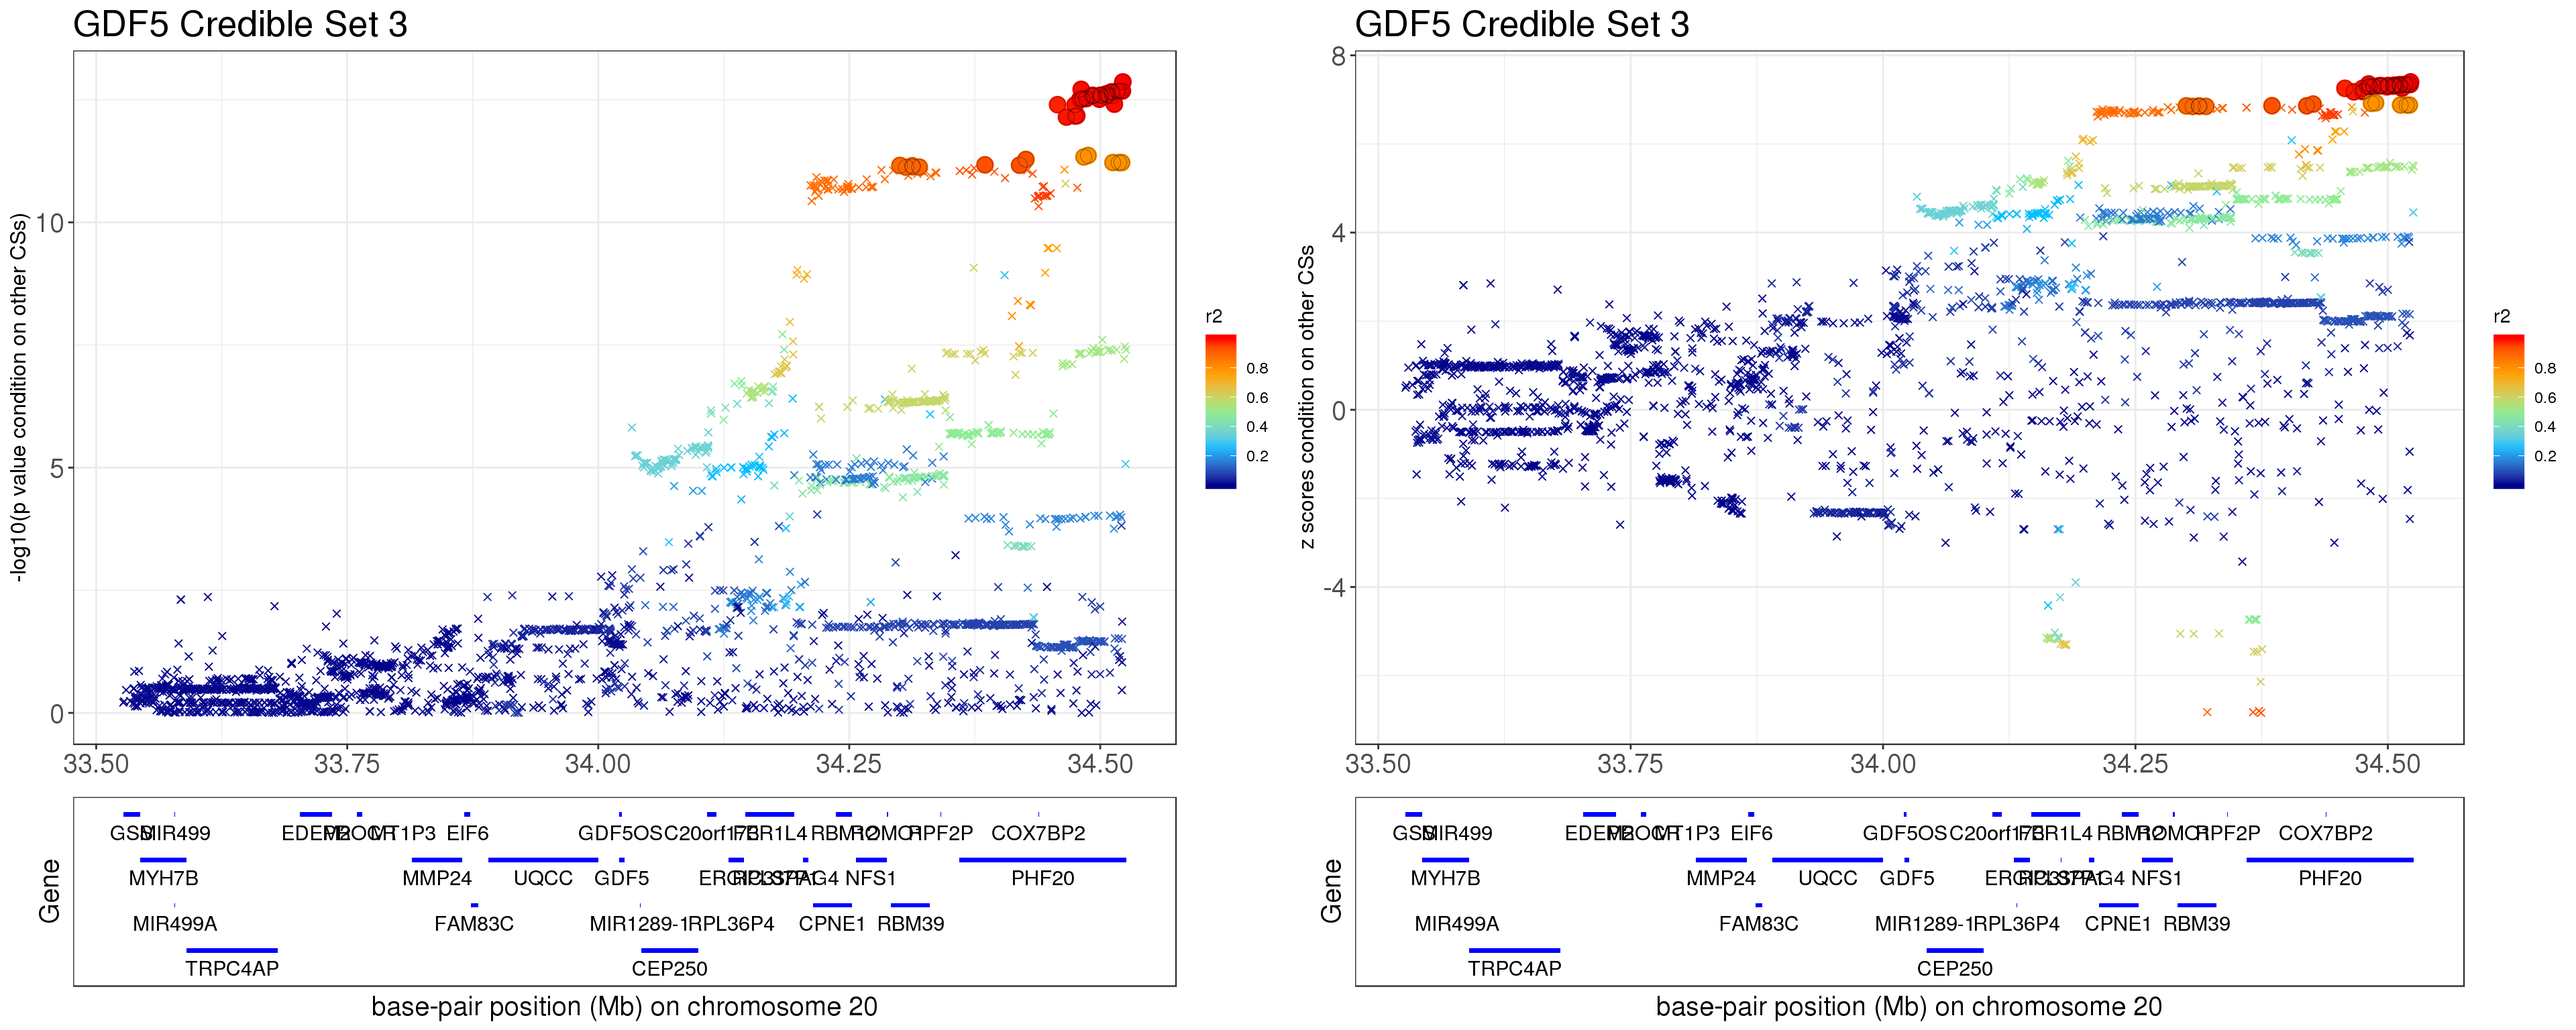
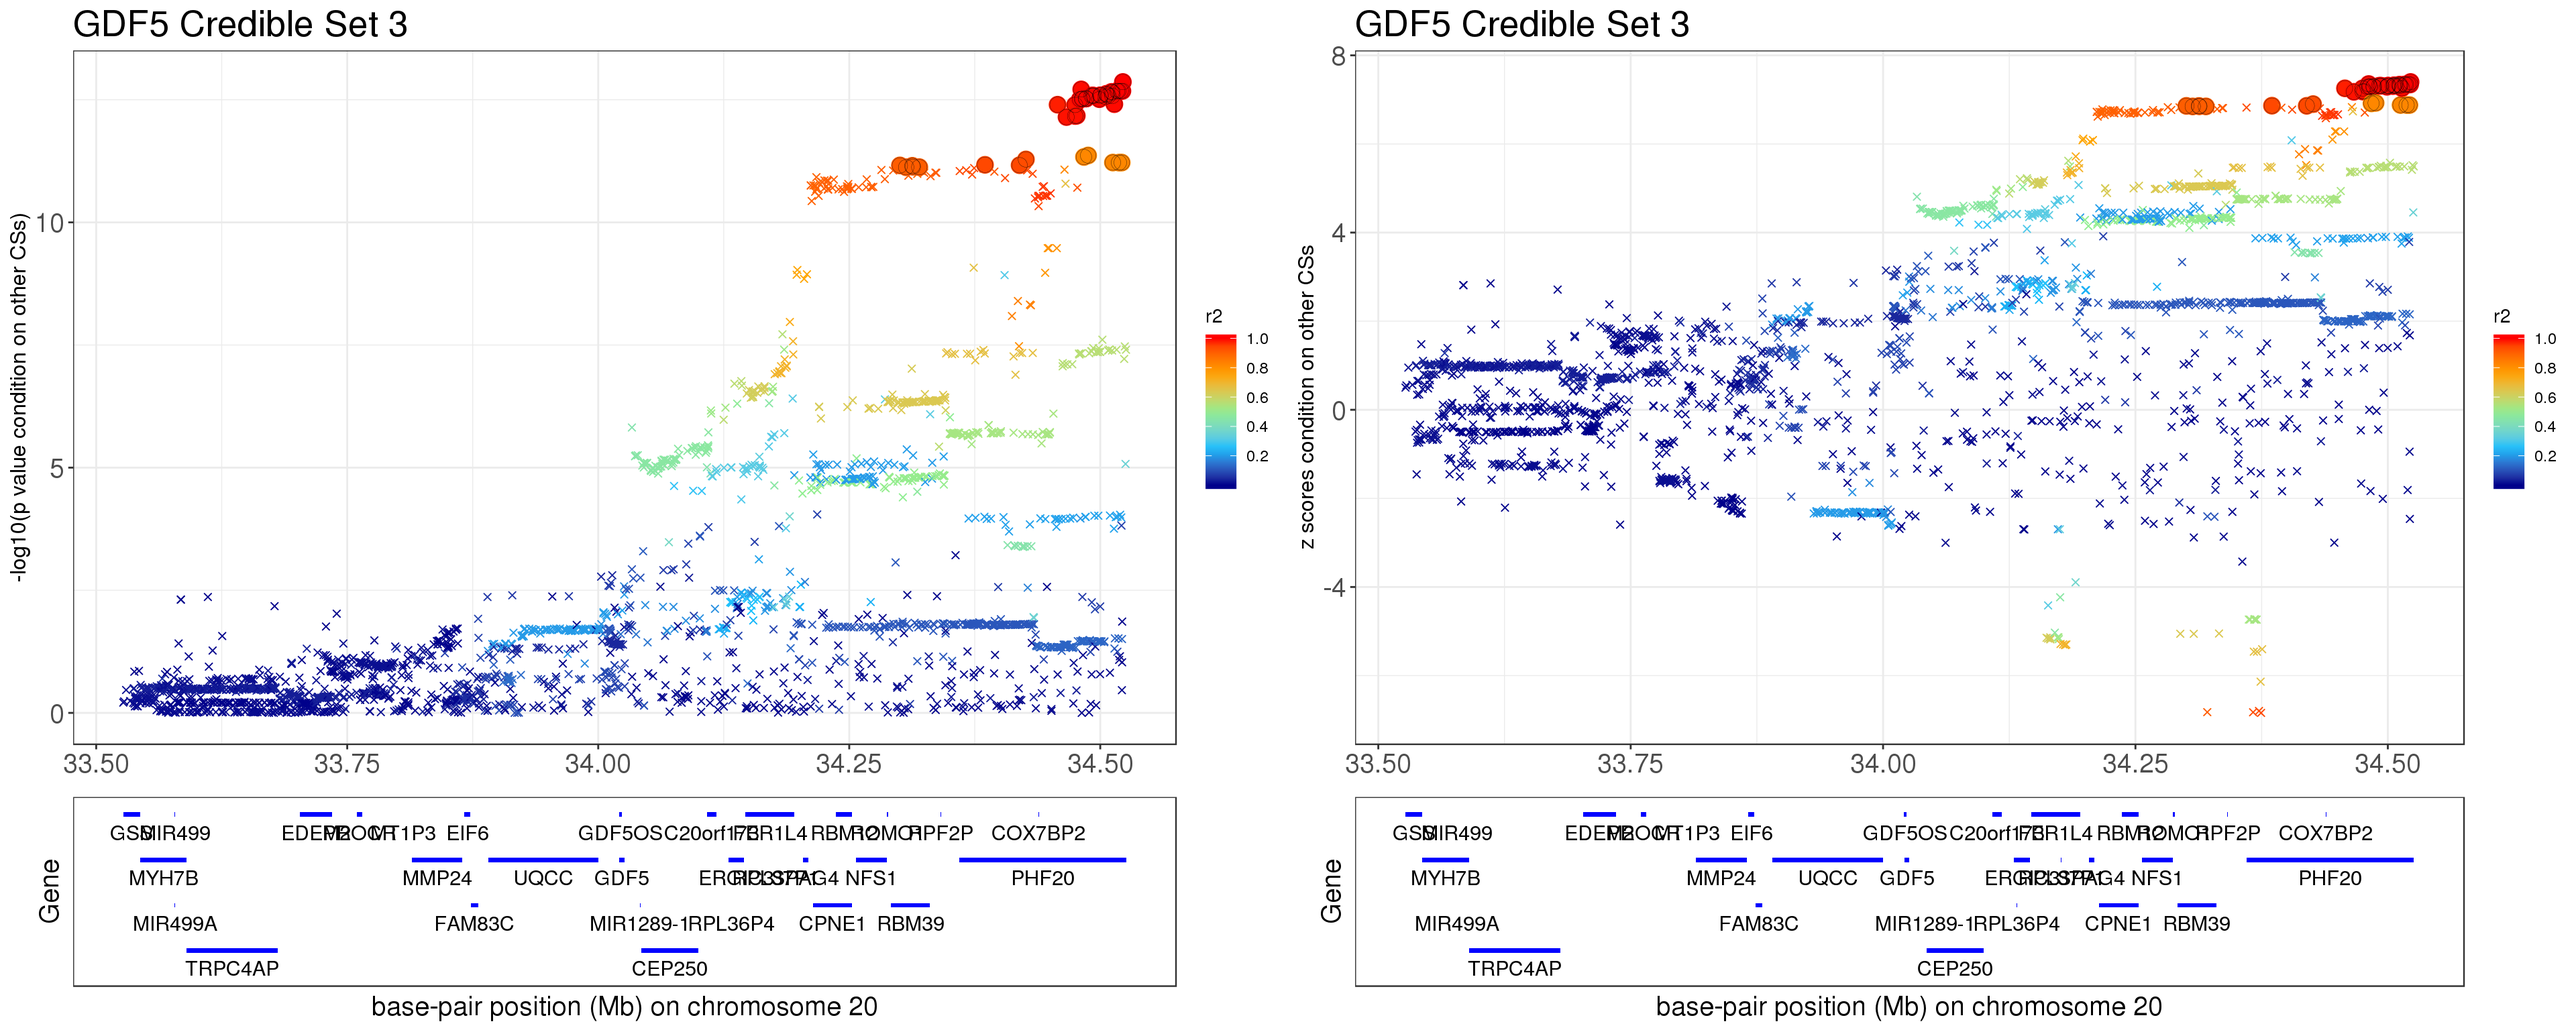
Build site.

diff --git a/docs/finemap_height_GDF5_check.html b/docs/finemap_height_GDF5_check.html
@@ -11,7 +11,7 @@
 
 <meta name="author" content="Yuxin Zou" />
 
-<meta name="date" content="2019-10-07" />
+<meta name="date" content="2019-11-18" />
 
 <title>Fine-mapping Height GDF5 – SuSiE check</title>
 
@@ -327,7 +327,7 @@ div.section {
 
 <h1 class="title toc-ignore">Fine-mapping Height GDF5 – SuSiE check</h1>
 <h4 class="author"><em>Yuxin Zou</em></h4>
-<h4 class="date"><em>10/07/2019</em></h4>
+<h4 class="date"><em>11/18/2019</em></h4>
 
 </div>
 
@@ -443,10 +443,10 @@ This reproducible <a href="http://rmarkdown.rstudio.com">R Markdown</a> analysis
 <div class="panel panel-default">
 <div class="panel-heading">
 <p class="panel-title">
-<a data-toggle="collapse" data-parent="#workflowr-checks" href="#strongRepositoryversionstrongahrefhttpsgithubcomstephenslabfinemapukbiobanktreec7cb5617d564fda5287e51a060759fadeac4e57ctargetblankc7cb561a"> <span class="glyphicon glyphicon-ok text-success" aria-hidden="true"></span> <strong>Repository version:</strong> <a href="https://github.com/stephenslab/finemap-uk-biobank/tree/c7cb5617d564fda5287e51a060759fadeac4e57c" target="_blank">c7cb561</a> </a>
+<a data-toggle="collapse" data-parent="#workflowr-checks" href="#strongRepositoryversionstrongahrefhttpsgithubcomstephenslabfinemapukbiobanktree4809e97312b26d2c5bcb07bfe1bc7078344f4a71targetblank4809e97a"> <span class="glyphicon glyphicon-ok text-success" aria-hidden="true"></span> <strong>Repository version:</strong> <a href="https://github.com/stephenslab/finemap-uk-biobank/tree/4809e97312b26d2c5bcb07bfe1bc7078344f4a71" target="_blank">4809e97</a> </a>
 </p>
 </div>
[2 lines of base64/hex data omitted]
 <div class="panel-body">
 <p>
 Great! You are using Git for version control. Tracking code development and connecting the code version to the results is critical for reproducibility. The version displayed above was the version of the Git repository at the time these results were generated. <br><br> Note that you need to be careful to ensure that all relevant files for the analysis have been committed to Git prior to generating the results (you can use <code>wflow_publish</code> or <code>wflow_git_commit</code>). workflowr only checks the R Markdown file, but you know if there are other scripts or data files that it depends on. Below is the status of the Git repository when the results were generated:
@@ -479,6 +479,8 @@ Untracked files:
     Untracked:  output/height.CABLES1.removeCS2.XtX.Xty.rds
     Untracked:  output/height.GDF5.removeCS1.XtX.Xty.rds
     Untracked:  output/height.ZBTB38.plink2.height.glm.linear
+    Untracked:  output/height.ZBTB38.removeCS1.XtX.Xty.rds
+    Untracked:  output/height.ZBTB38.removeCS2.XtX.Xty.rds
     Untracked:  output/height.ZBTB38.susie.model.rds
 
 Unstaged changes:
@@ -526,6 +528,40 @@ Message
 </tr>
 </thead>
 <tbody>
+<tr>
+<td>
+Rmd
+</td>
+<td>
+<a href="https://github.com/stephenslab/finemap-uk-biobank/blob/4809e97312b26d2c5bcb07bfe1bc7078344f4a71/analysis/finemap_height_GDF5_check.Rmd" target="_blank">4809e97</a>
+</td>
+<td>
+zouyuxin
+</td>
+<td>
+2019-11-19
+</td>
+<td>
+wflow_publish(“analysis/finemap_height_GDF5_check.Rmd”)
+</td>
+</tr>
+<tr>
+<td>
+html
+</td>
+<td>
+<a href="https://rawcdn.githack.com/stephenslab/finemap-uk-biobank/fbbaa4a02b76198f4d45f36bf65ccffdb379f729/docs/finemap_height_GDF5_check.html" target="_blank">fbbaa4a</a>
+</td>
+<td>
+zouyuxin
+</td>
+<td>
+2019-11-19
+</td>
+<td>
+Build site.
+</td>
+</tr>
 <tr>
 <td>
 Rmd
@@ -898,6 +934,43 @@ p2 = susie_plot_locuszoom(z, mod_bhat, pos = ss.dat$pos$POS/1e6, chr=20, gene.po
 p3 = susie_plot_locuszoom(z, mod_bhat, pos = ss.dat$pos$POS/1e6, chr=20, gene.pos.map = gene.pos.map, ld = R[z.max,], z.ref.name = names(z.max), y.susie =&#39;z&#39;)
 grid.arrange(p1, p2, p3, ncol=3)</code></pre>
 <p><img src="figure/finemap_height_GDF5_check.Rmd/GDF5_bhat_nostandardize_results-1.png" width="4320" style="display: block; margin: auto;" /></p>
+<p>
+<button type="button" class="btn btn-default btn-xs btn-workflowr btn-workflowr-fig" data-toggle="collapse" data-target="#fig-GDF5_bhat_nostandardize_results-1">
+Past versions of GDF5_bhat_nostandardize_results-1.png
+</button>
+</p>
+<div id="fig-GDF5_bhat_nostandardize_results-1" class="collapse">
+<div class="table-responsive">
+<table class="table table-condensed table-hover">
+<thead>
+<tr>
+<th>
+Version
+</th>
+<th>
+Author
+</th>
+<th>
+Date
+</th>
+</tr>
+</thead>
+<tbody>
+<tr>
+<td>
+<a href="https://github.com/stephenslab/finemap-uk-biobank/blob/fbbaa4a02b76198f4d45f36bf65ccffdb379f729/docs/figure/finemap_height_GDF5_check.Rmd/GDF5_bhat_nostandardize_results-1.png" target="_blank">fbbaa4a</a>
+</td>
+<td>
+zouyuxin
+</td>
+<td>
+2019-11-19
+</td>
+</tr>
+</tbody>
+</table>
+</div>
+</div>
 <p>For 1Mb region about GDF5, SuSiE found 6 CSs. The SNP with the strongest marginal p value is rs143384 (p = 4.8689e-251).</p>
 <p>The average correlation between SNPs in CS1 (red) and CS3 (green) is</p>
 <pre class="r"><code>round(mean(abs(R[mod_bhat$sets$cs$L1, mod_bhat$sets$cs$L3])), 4)</code></pre>
@@ -1002,6 +1075,43 @@ p1 = locus.zoom.cs(z, cs = mod_bhat$sets$cs$L3, pos=ss.dat$pos$POS/1e6, chr=20, 
 p2 = locus.zoom.cs(z, cs = mod_bhat$sets$cs$L3, pos=ss.dat$pos$POS/1e6, chr=20, gene.pos.map = gene.pos.map, z.ref.name = names(z)[z.ref], ld = R[z.ref,], title=&#39;GDF5 CS3&#39;, y.lab = &#39;z scores condition on CS1&#39;, y.type = &#39;z&#39;)
 grid.arrange(p1,p2,ncol=2)</code></pre>
 <p><img src="figure/finemap_height_GDF5_check.Rmd/GDF5_bhat_nostandardize_CS3_1-1.png" width="1920" style="display: block; margin: auto;" /></p>
+<p>
+<button type="button" class="btn btn-default btn-xs btn-workflowr btn-workflowr-fig" data-toggle="collapse" data-target="#fig-GDF5_bhat_nostandardize_CS3_1-1">
+Past versions of GDF5_bhat_nostandardize_CS3_1-1.png
+</button>
+</p>
+<div id="fig-GDF5_bhat_nostandardize_CS3_1-1" class="collapse">
+<div class="table-responsive">
+<table class="table table-condensed table-hover">
+<thead>
+<tr>
+<th>
+Version
+</th>
+<th>
+Author
+</th>
+<th>
+Date
+</th>
+</tr>
+</thead>
+<tbody>
+<tr>
+<td>
+<a href="https://github.com/stephenslab/finemap-uk-biobank/blob/fbbaa4a02b76198f4d45f36bf65ccffdb379f729/docs/figure/finemap_height_GDF5_check.Rmd/GDF5_bhat_nostandardize_CS3_1-1.png" target="_blank">fbbaa4a</a>
+</td>
+<td>
+zouyuxin
+</td>
+<td>
+2019-11-19
+</td>
+</tr>
+</tbody>
+</table>
+</div>
+</div>
 <ul>
 <li>Option 2. We remove effect of all other CSs.</li>
 </ul>
@@ -1017,15 +1127,50 @@ b_2 = colSums(mod_bhat$alpha[-3,]*mod_bhat$mu[-3,])/mod_bhat$X_column_scale_fact
 rss = c(ss.dat$yty - 2*sum(ss.dat$Xty * b_2) + sum(XtXr * b_2)) - betas * Xtr
 se = as.vector(sqrt(rss/((ss.dat$n-1)*diag(ss.dat$XtX))))
 z.CS3 = betas/se
+R = as.matrix(t(ss.dat$XtX * (1/sqrt(diag(ss.dat$XtX)))) * (1/ sqrt(diag(ss.dat$XtX))))
 names(z.CS3) = colnames(R)
 z.cs3.max = which.max(abs(z.CS3))
 p1 = locus.zoom.cs(z.CS3, mod_bhat$sets$cs$L3, pos=ss.dat$pos$POS/1e6, chr = 20, gene.pos.map = gene.pos.map, z.ref.name = names(z.cs3.max), ld = R[z.cs3.max,], title=&#39;GDF5 Credible Set 3&#39;, y.lab = &#39;-log10(p value condition on other CSs)&#39;, title.size = 20)
 p2 = locus.zoom.cs(z.CS3, mod_bhat$sets$cs$L3, pos=ss.dat$pos$POS/1e6, chr = 20, gene.pos.map = gene.pos.map, z.ref.name = names(z.cs3.max), ld = R[z.cs3.max,], title=&#39;GDF5 Credible Set 3&#39;, y.lab = &#39;z scores condition on other CSs&#39;, title.size = 20, y.type = &#39;z&#39;)
 grid.arrange(p1,p2,ncol=2)</code></pre>
 <p><img src="figure/finemap_height_GDF5_check.Rmd/unnamed-chunk-8-1.png" width="1920" style="display: block; margin: auto;" /></p>
-<pre class="r"><code># pdf(&#39;GitHub/finemap-uk-biobank/GDF5_CS1.pdf&#39;, height=5, width=8)
-# p2
-# dev.off()</code></pre>
+<p>
+<button type="button" class="btn btn-default btn-xs btn-workflowr btn-workflowr-fig" data-toggle="collapse" data-target="#fig-unnamed-chunk-8-1">
+Past versions of unnamed-chunk-8-1.png
+</button>
+</p>
+<div id="fig-unnamed-chunk-8-1" class="collapse">
+<div class="table-responsive">
+<table class="table table-condensed table-hover">
+<thead>
+<tr>
+<th>
+Version
+</th>
+<th>
+Author
+</th>
+<th>
+Date
+</th>
+</tr>
+</thead>
+<tbody>
+<tr>
+<td>
+<a href="https://github.com/stephenslab/finemap-uk-biobank/blob/fbbaa4a02b76198f4d45f36bf65ccffdb379f729/docs/figure/finemap_height_GDF5_check.Rmd/unnamed-chunk-8-1.png" target="_blank">fbbaa4a</a>
+</td>
+<td>
+zouyuxin
+</td>
+<td>
+2019-11-19
+</td>
+</tr>
+</tbody>
+</table>
+</div>
+</div>
 <br>
 <p>
 <button type="button" class="btn btn-default btn-workflowr btn-workflowr-sessioninfo" data-toggle="collapse" data-target="#workflowr-sessioninfo" style="display: block;">
